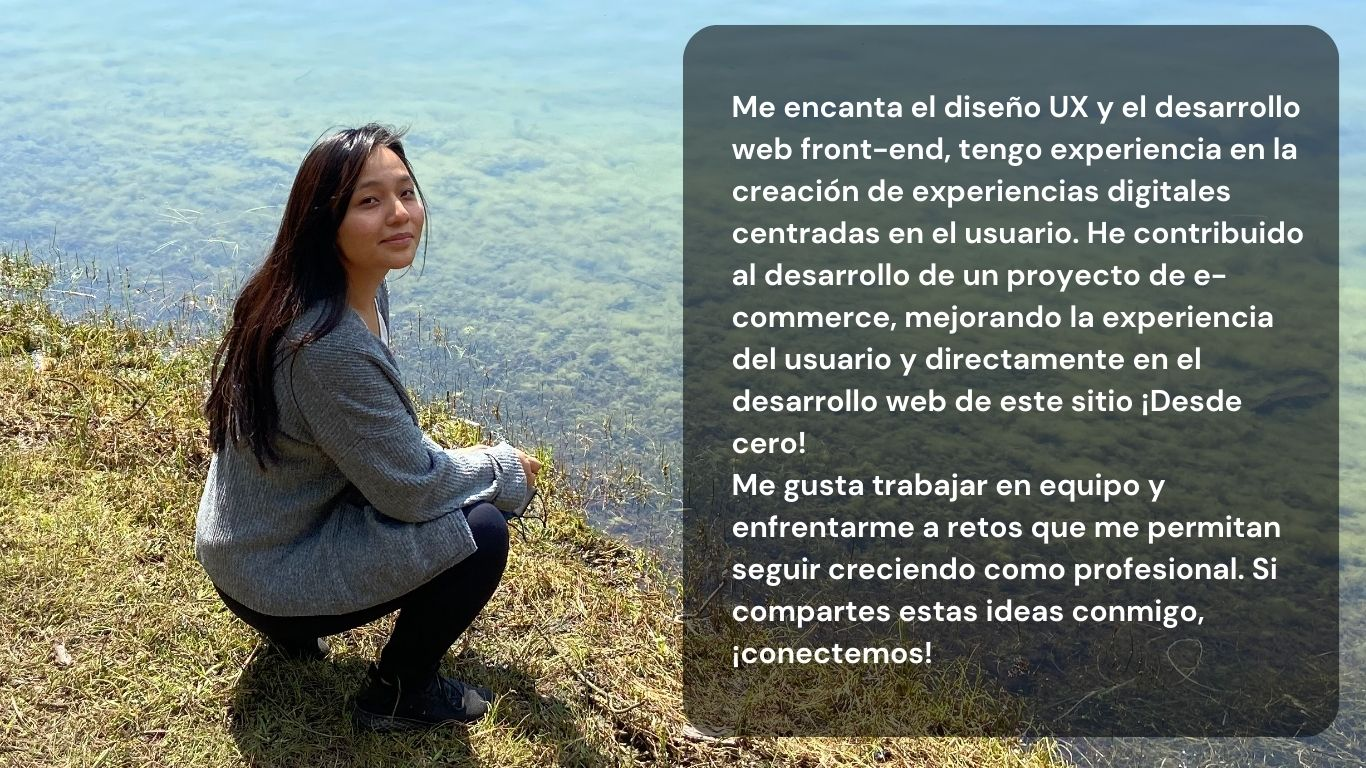
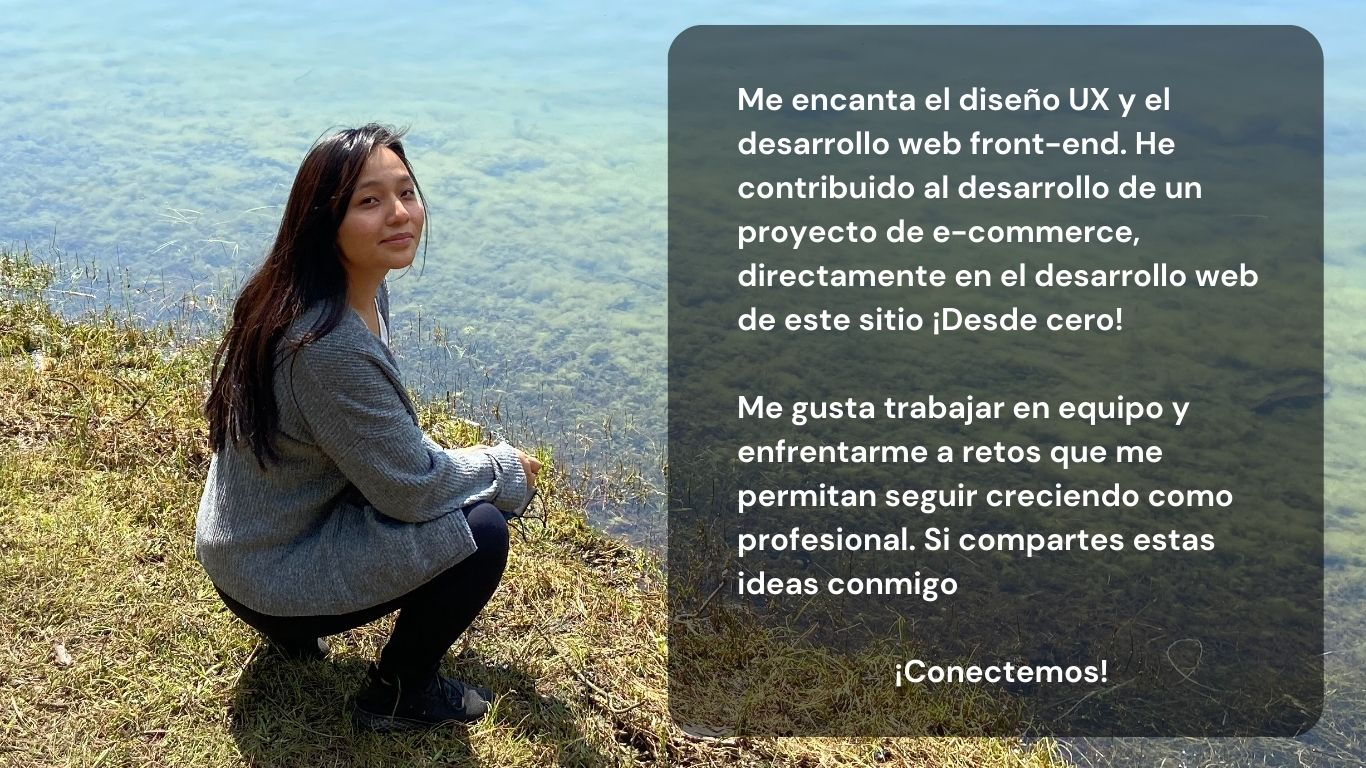
Hice más ajustes al portafolio

Changed region(s): [[0.4612, 0.0312, 0.9839, 0.9688]]

diff --git a/index.html b/index.html
@@ -62,12 +62,12 @@
 				</header>
 				<a class="image main"><img src="images/Captura.JPG" alt="" /></a>
 			</article>
-				
+
 			<div class="post featured">
 				<h2>Proyectos en los que he trabajado</h2>
 			</div>
-						
-			
+
+
 
 			<!-- Posts -->
 			<section class="posts">
@@ -80,9 +80,9 @@
 					</header>
 					<a href="https://danielarog.github.io/Equipo6-Hackathon/Equipo6/" class="image fit"><img
 							src="images/hackaton.JPG" alt="" /></a>
-					<p>Esta es una landin page de una página deportiva que realicé con otras 2 desarrolladoras, 
+					<p>Esta es una landin page de una página deportiva que realicé con otras 2 desarrolladoras,
 						aquí utilizamos bootstrap, y combinamos nuestras habilidades con esta tecnología para llegar a
-						 este innovador resultado.
+						este innovador resultado.
 					</p>
 					<ul class="actions special">
 						<li><a href="https://danielarog.github.io/Equipo6-Hackathon/Equipo6/" class="button">Ver</a>
@@ -91,13 +91,13 @@
 				</article>
 				<article>
 					<header>
-						<span class="date">Marzo, 2025</span>
+						<span class="date">Marzo 2025</span>
 						<h2><a href="https://equipo-3-generation.github.io/CodigoCepa/index.html">h3rmeDia<br />
 								sitio web</a></h2>
 					</header>
 					<a href="https://equipo-3-generation.github.io/CodigoCepa/index.html" class="image fit"><img
 							src="images/hermedia.JPG" alt="" /></a>
-					<p>H3rmeDia E-commerce es un proyecto en marcha que estoy realizando en colaboración 
+					<p>H3rmeDia E-commerce es un proyecto en marcha que estoy realizando en colaboración
 						con otras desarrolladoras, puedes darle un vistazo a nuestro avance.
 					</p>
 					<ul class="actions special">
@@ -107,7 +107,7 @@
 				</article>
 				<article>
 					<header>
-						<span class="date">Febrero, 2025</span>
+						<span class="date">Febrero 2025</span>
 						<h2><a href="images/p2.JPG">Página de contacto<br />
 								enlace</a></h2>
 					</header>
@@ -122,15 +122,18 @@
 				<article>
 					<header>
 						<span class="date">Febrero 2025</span>
-						<h2><a href="https://equipo-3-generation.github.io/Lab14-Equipo3/contacto.html">Página de contacto con<br />
+						<h2><a href="https://equipo-3-generation.github.io/Lab14-Equipo3/contacto.html">Página de
+								contacto con<br />
 								más secciones</a></h2>
 					</header>
-					<a href="https://equipo-3-generation.github.io/Lab14-Equipo3/contacto.html" class="image fit"><img src="images/p3.JPG" alt="" /></a>
+					<a href="https://equipo-3-generation.github.io/Lab14-Equipo3/contacto.html" class="image fit"><img
+							src="images/p3.JPG" alt="" /></a>
 					<p>Esta es una version más completa de la página de contacto
 						Se añadieron dos secciones, una para adds y otra para noticias.
 					</p>
 					<ul class="actions special">
-						<li><a href="https://equipo-3-generation.github.io/Lab14-Equipo3/contacto.html" class="button">Ver</a></li>
+						<li><a href="https://equipo-3-generation.github.io/Lab14-Equipo3/contacto.html"
+								class="button">Ver</a></li>
 					</ul>
 				</article>
 				<article>
@@ -139,7 +142,7 @@
 						<h2><a href="images/p4.JPG">Aprendiendo a usar bootstrap</a></h2>
 					</header>
 					<a href="images/p4.JPG" class="image fit"><img src="images/p4.JPG" alt="" /></a>
-					<p>En este  pequeño ejercicio aprendí a usar usar bootstrap. Si bien parece un diseño 
+					<p>En este pequeño ejercicio aprendí a usar usar bootstrap. Si bien parece un diseño
 						muy simple, me gustó
 						realizarlo y hacerlo por eso lo añadí en mi portafolio.
 					</p>
@@ -153,7 +156,9 @@
 		<!-- Footer -->
 		<footer id="footer">
 			<section>
-				<a class="large"><h2>¡Contáctame!</h2></a>
+				<a class="large">
+					<h2>¡Contáctame!</h2>
+				</a>
 			</section>
 			<section class="split contact">
 				<section>

diff --git a/tecnologias.html b/tecnologias.html
@@ -57,20 +57,44 @@
 					</p>
 
 					<div class="tech-icons">
-						<div class="tech-item"><i class="fab fa-html5 html"></i>HTML</div>
-						<div class="tech-item"><i class="fab fa-css3-alt css"></i>CSS</div>
-						<div class="tech-item"><i class="fab fa-js js"></i>JavaScript</div>
-						<div class="tech-item"><i class="fab fa-bootstrap bootstrap"></i>Bootstrap</div>
-						<div class="tech-item"><i class="fab fa-figma figma"></i>Figma</div>
-						<div class="tech-item"><i class="fab fa-python python"></i>Python</div>
-						<div class="tech-item"><i class="fab fa-java java"></i>Java</div>
-						<div class="tech-item"><i class="fab fa-git git"></i>Git</div>
-						<div class="tech-item"><i class="fab fa-github github"></i>GitHub</div>
-						<div class="tech-item"><i class="fab fa-windows vs-code"></i>VS Code</div>
-						<div class="tech-item"><i class="fab fa-java intellij"></i>IntelliJ</div>
+						<div class="tech-item">
+							<img src="https://cdn.jsdelivr.net/gh/devicons/devicon@latest/icons/html5/html5-original.svg" />
+						  HTML</div>
+						<div class="tech-item">
+							<img src="https://cdn.jsdelivr.net/gh/devicons/devicon@latest/icons/css3/css3-original.svg" />
+						  CSS</div>
+						<div class="tech-item">
+							<img src="https://cdn.jsdelivr.net/gh/devicons/devicon@latest/icons/javascript/javascript-original.svg" />
+						  JavaScript</div>
+						<div class="tech-item">
+							<img src="https://cdn.jsdelivr.net/gh/devicons/devicon@latest/icons/bootstrap/bootstrap-original.svg" />
+						  Bootstrap</div>
+						<div class="tech-item">
+							<img src="https://cdn.jsdelivr.net/gh/devicons/devicon@latest/icons/figma/figma-original.svg" />
+						  Figma</div>
+						<div class="tech-item">
+							<img src="https://cdn.jsdelivr.net/gh/devicons/devicon@latest/icons/python/python-original.svg" />
+						  Python</div>
+						<div class="tech-item">
+							<img src="https://cdn.jsdelivr.net/gh/devicons/devicon@latest/icons/java/java-original.svg" />
+						  Java</div>
+
+						<div class="tech-item">
+							<img src="https://cdn.jsdelivr.net/gh/devicons/devicon@latest/icons/github/github-original.svg" />
+						  GitHub</div>
+						<div class="tech-item">
+							<img src="https://cdn.jsdelivr.net/gh/devicons/devicon@latest/icons/vscode/vscode-original.svg" />
+						  VS Code</div>
+						<div class="tech-item">
+							<img src="https://cdn.jsdelivr.net/gh/devicons/devicon@latest/icons/intellij/intellij-original.svg" />
+						  IntelliJ</div>
 						<div class="tech-item"><i class="fas fa-users scrum"></i>SCRUM</div>
-						<div class="tech-item"><i class="fas fa-tasks jira"></i>Jira</div>
-						<div class="tech-item"><i class="fab fa-trello trello"></i>Trello</div>
+						<div class="tech-item">
+							<img src="https://cdn.jsdelivr.net/gh/devicons/devicon@latest/icons/jira/jira-original.svg" />
+						  Jira</div>
+						<div class="tech-item">
+							<img src="https://cdn.jsdelivr.net/gh/devicons/devicon@latest/icons/trello/trello-original.svg" />
+						  Trello</div>
 						<div class="tech-item"><i class="fas fa-robot ai"></i>IA</div>
 					</div>
 

diff --git a/assets/css/main.css b/assets/css/main.css
@@ -4708,23 +4708,20 @@ input, select, textarea {
 		align-items: center;
 		font-size: 2rem;
 		transition: transform 0.2s;
+		flex: 1;
+		
 	}
 	.tech-item:hover {
 		transform: scale(1.2);
 	}
 	.tech-item i {
-		font-size: 3rem;
+		font-size: 6rem;
 		margin-bottom: 8px;
 	}
-	.html { color: #E34F26; }       /* Color de HTML */
-	.css { color: #1572B6; }        /* Color de CSS */
-	.js { color: #F7DF1E; }         /* Color de JavaScript */
-	.bootstrap { color: #7952B3; }  /* Color de Bootstrap */
-	.figma { color: #F24E1E; }      /* Color de Figma */
-	.python { color: #3776AB; }     /* Color de Python */
-	.java { color: #007396; }       /* Color de Java */
-	.git { color: #F05032; }        /* Color de Git */
+	.tech-item img {
+		height: 6rem;
+		margin-bottom: 8px;
+	}
+	
+	
 	.github { color: #181717; }     /* Color de GitHub */
-	.vs-code { color: #007ACC; }    /* Color de Visual Studio Code */
-	.intellij { color: #FB8122; }   /* Color de IntelliJ */
-	.scrum, .jira, .trello, .ai { color: #2C3E50; } /* Genérico */
